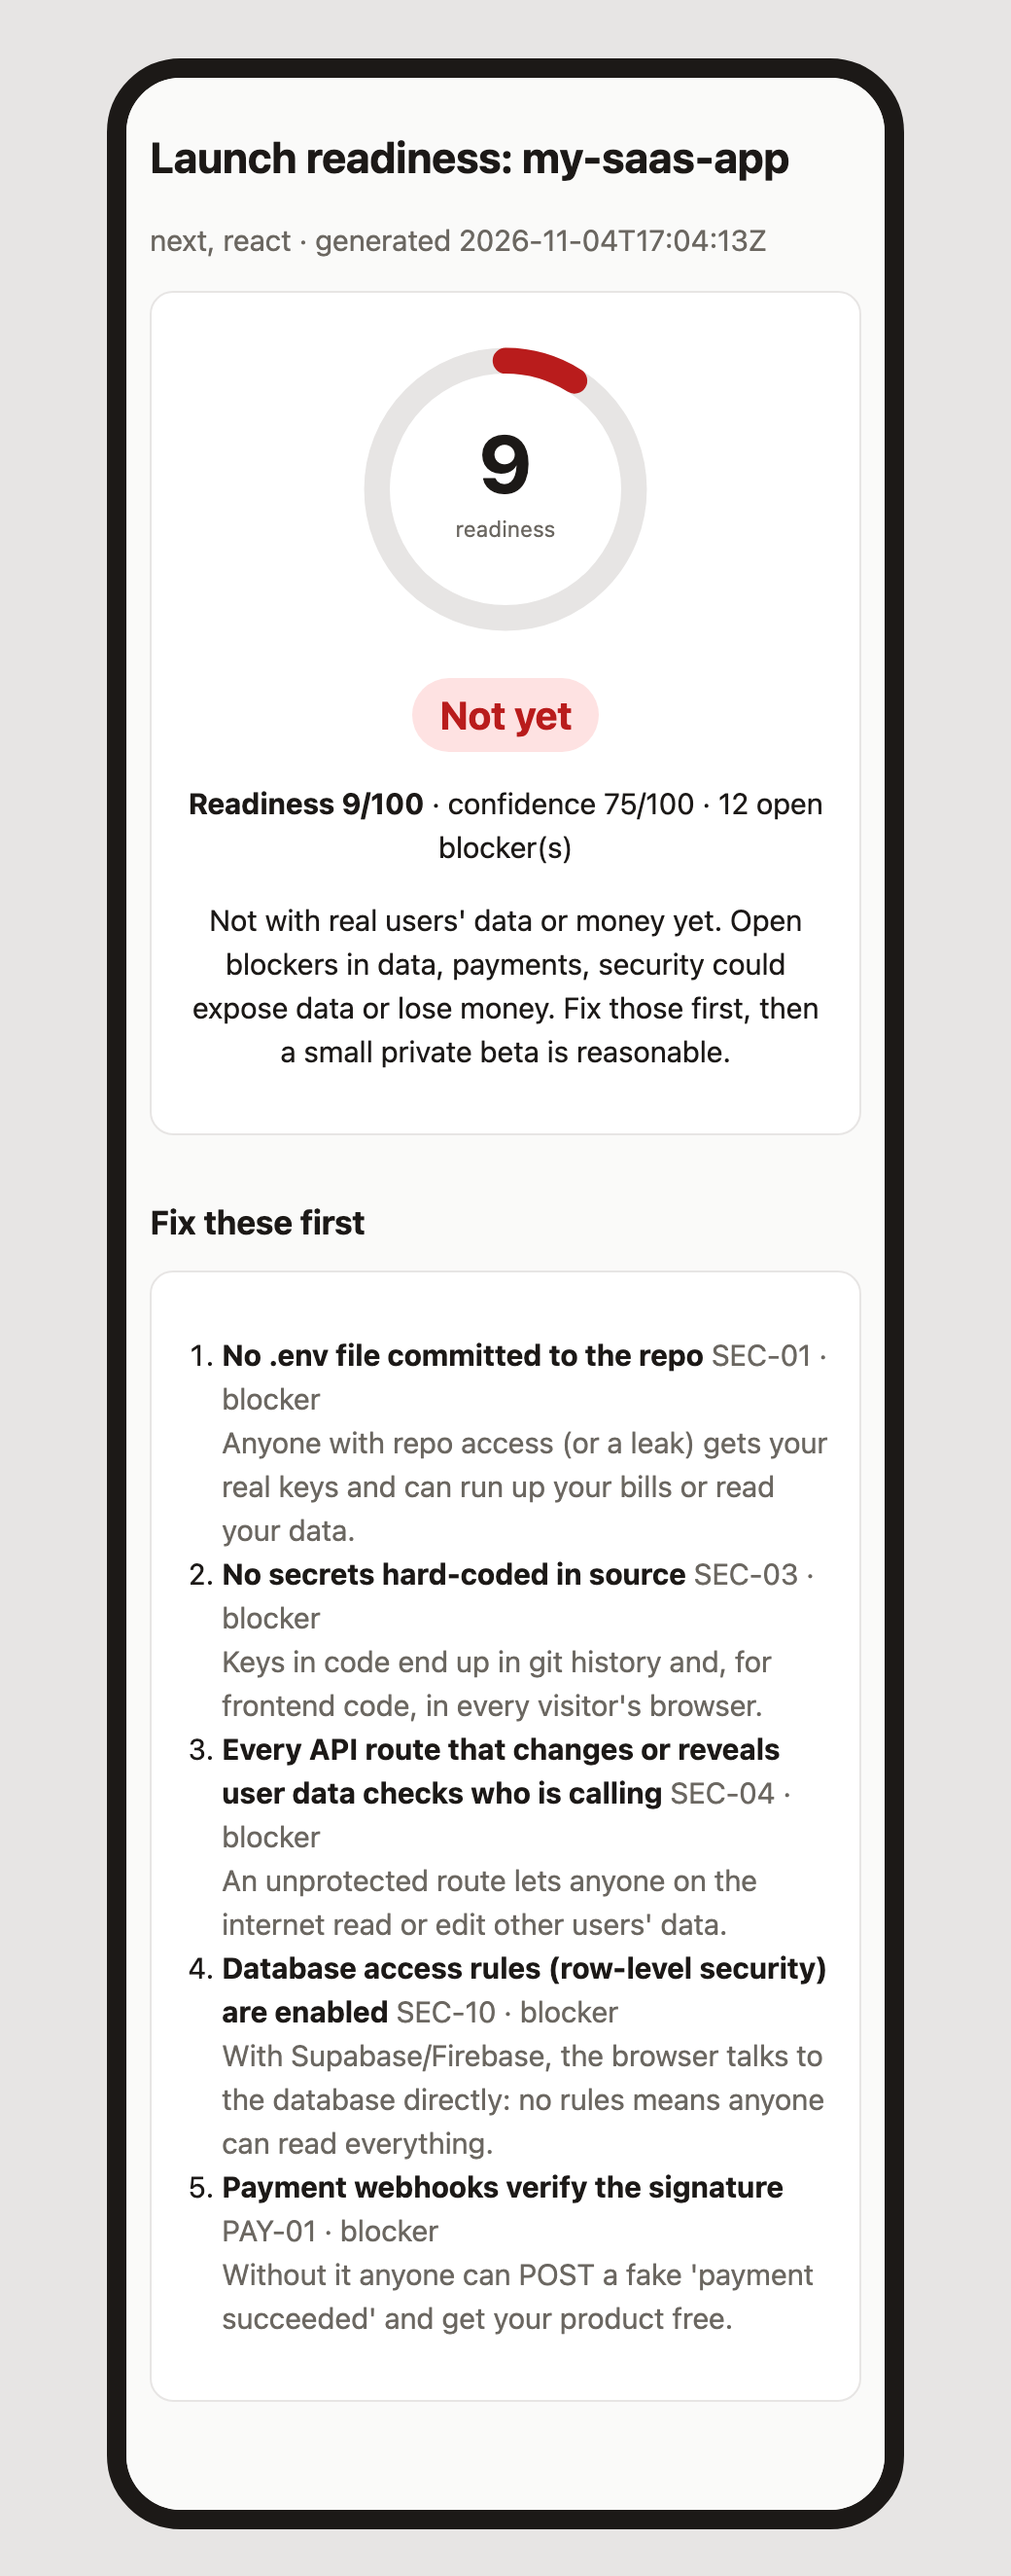
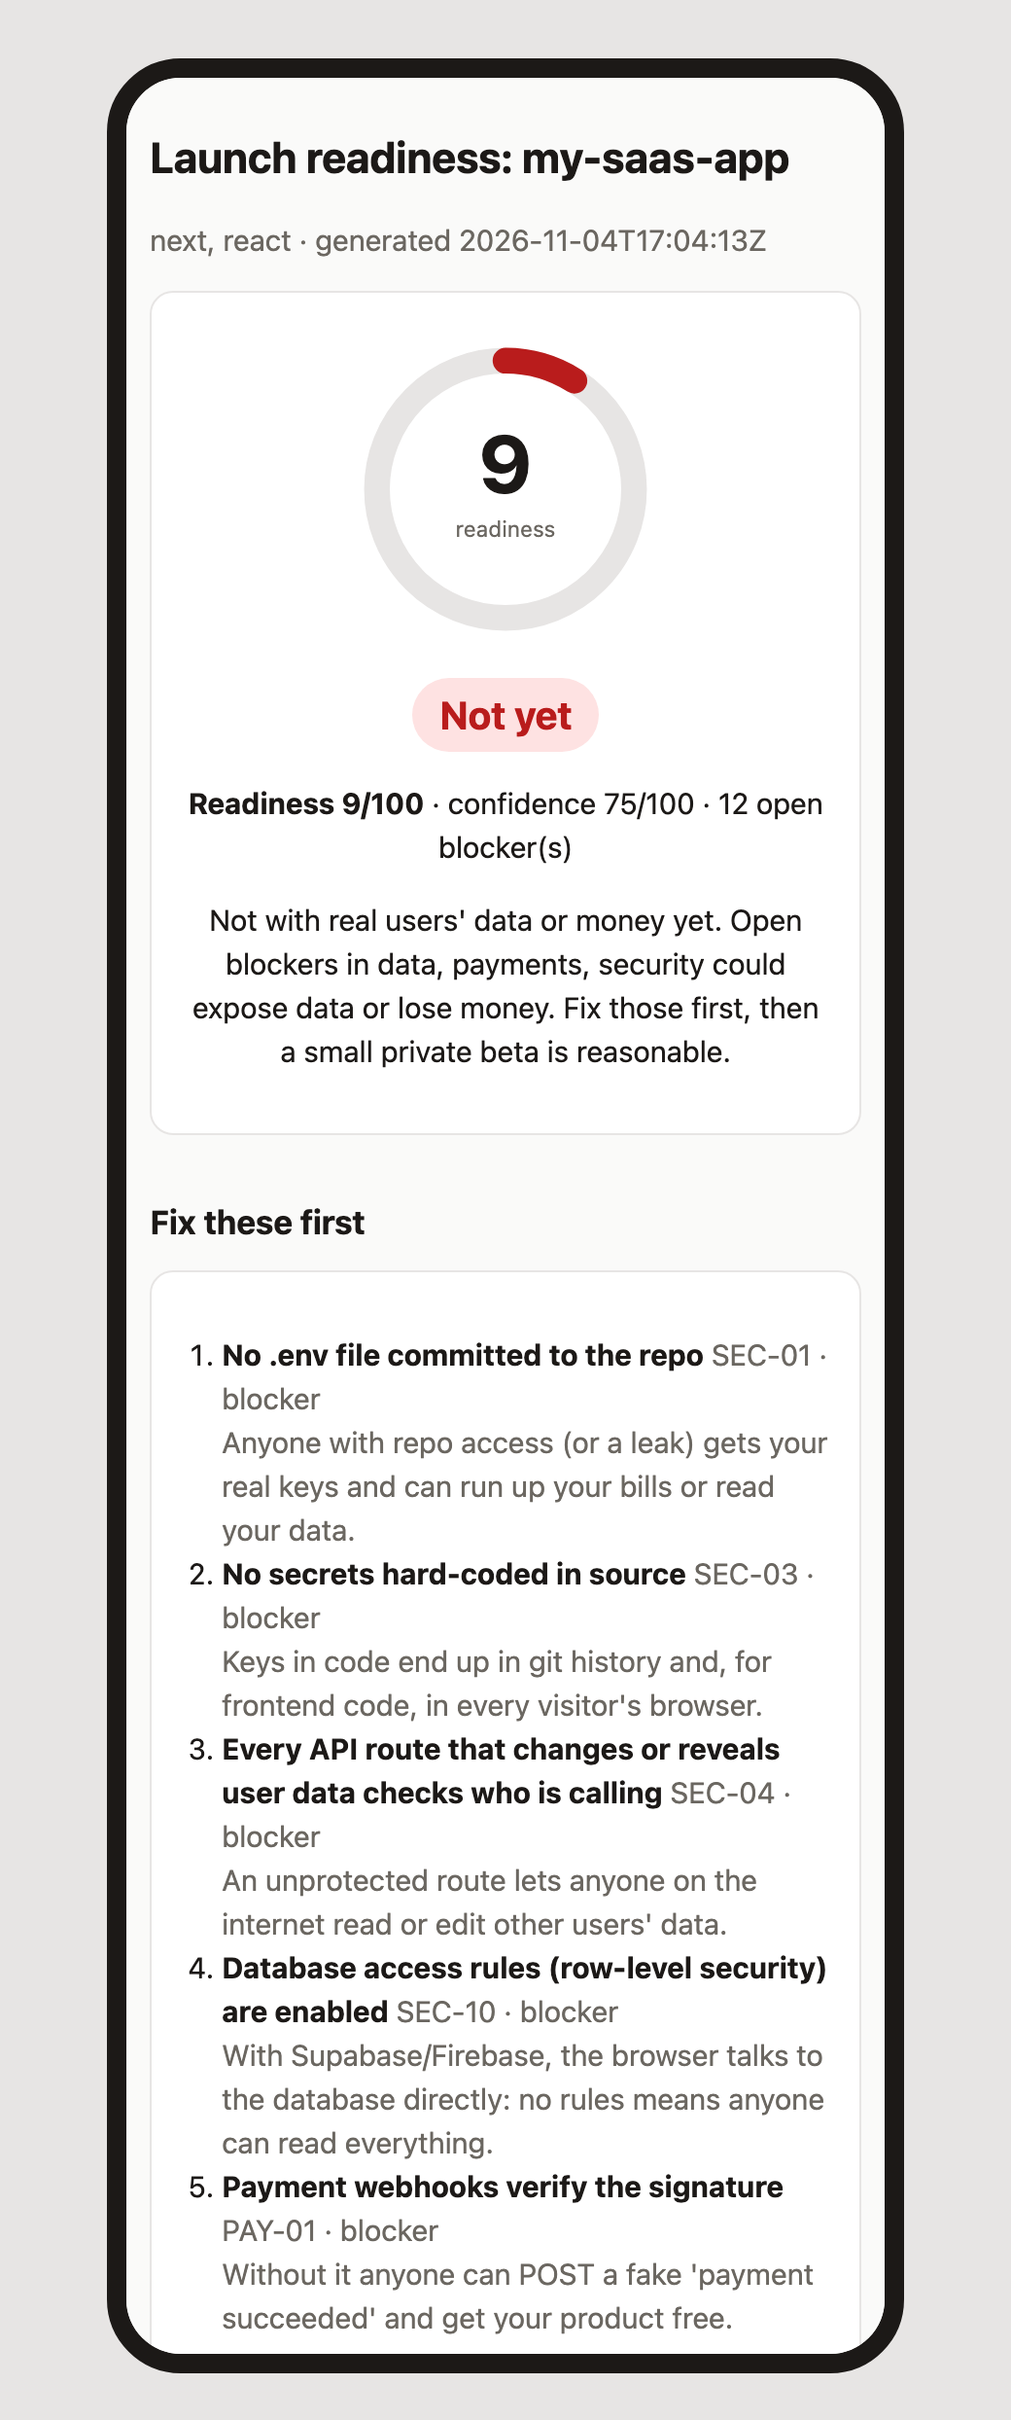
Trim empty space at the bottom of the phone screenshot

Changed region(s): [[0.1231, 0.0309, 0.8923, 0.9904], [0.8615, 0.0309, 0.8923, 0.0619]]

diff --git a/scripts/make_screenshots.py b/scripts/make_screenshots.py
@@ -81,8 +81,8 @@ def main():
                 target = os.path.join(tmp, "mobile-frame.html")
                 open(target, "w").write(
                     '<body style="margin:0;background:#e7e5e4;display:flex;justify-content:center;padding:30px 0">'
-                    '<iframe src="file://%s" style="width:390px;height:1250px;border:10px solid #1c1917;border-radius:38px;background:#fafaf9"></iframe></body>' % p)
-                size = "520,1400"
+                    '<iframe src="file://%s" style="width:390px;height:1170px;border:10px solid #1c1917;border-radius:38px;background:#fafaf9"></iframe></body>' % p)
+                size = "520,1320"
             subprocess.run([CHROME, "--headless=new", "--disable-gpu", "--hide-scrollbars", "--force-device-scale-factor=2",
                             "--window-size=" + size, "--virtual-time-budget=2000", "--screenshot=" + out, "file://" + target],
                            check=True, capture_output=True)
